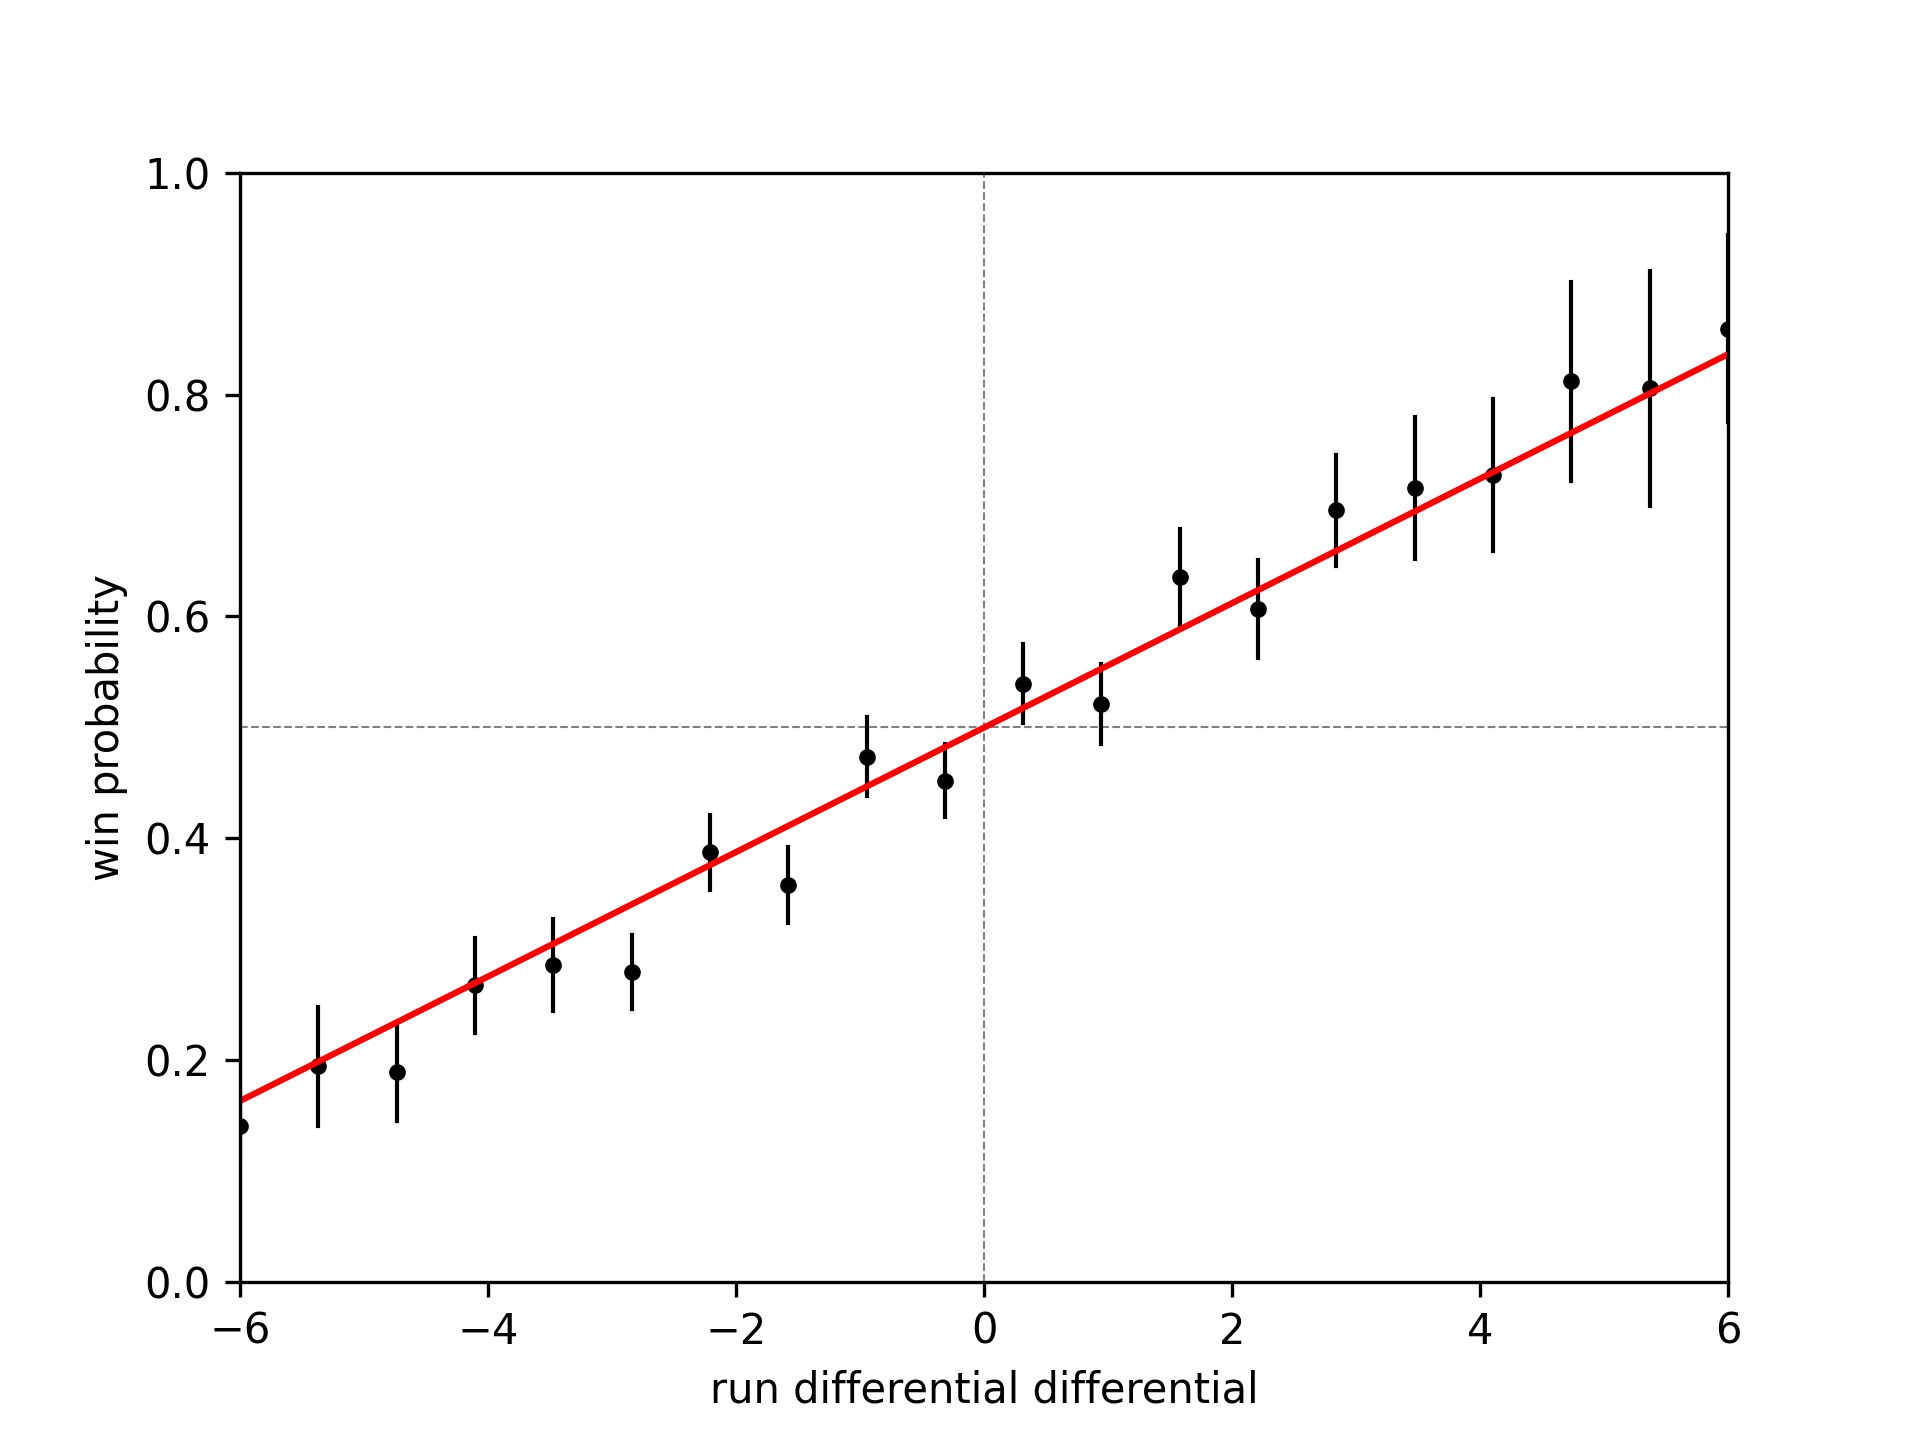
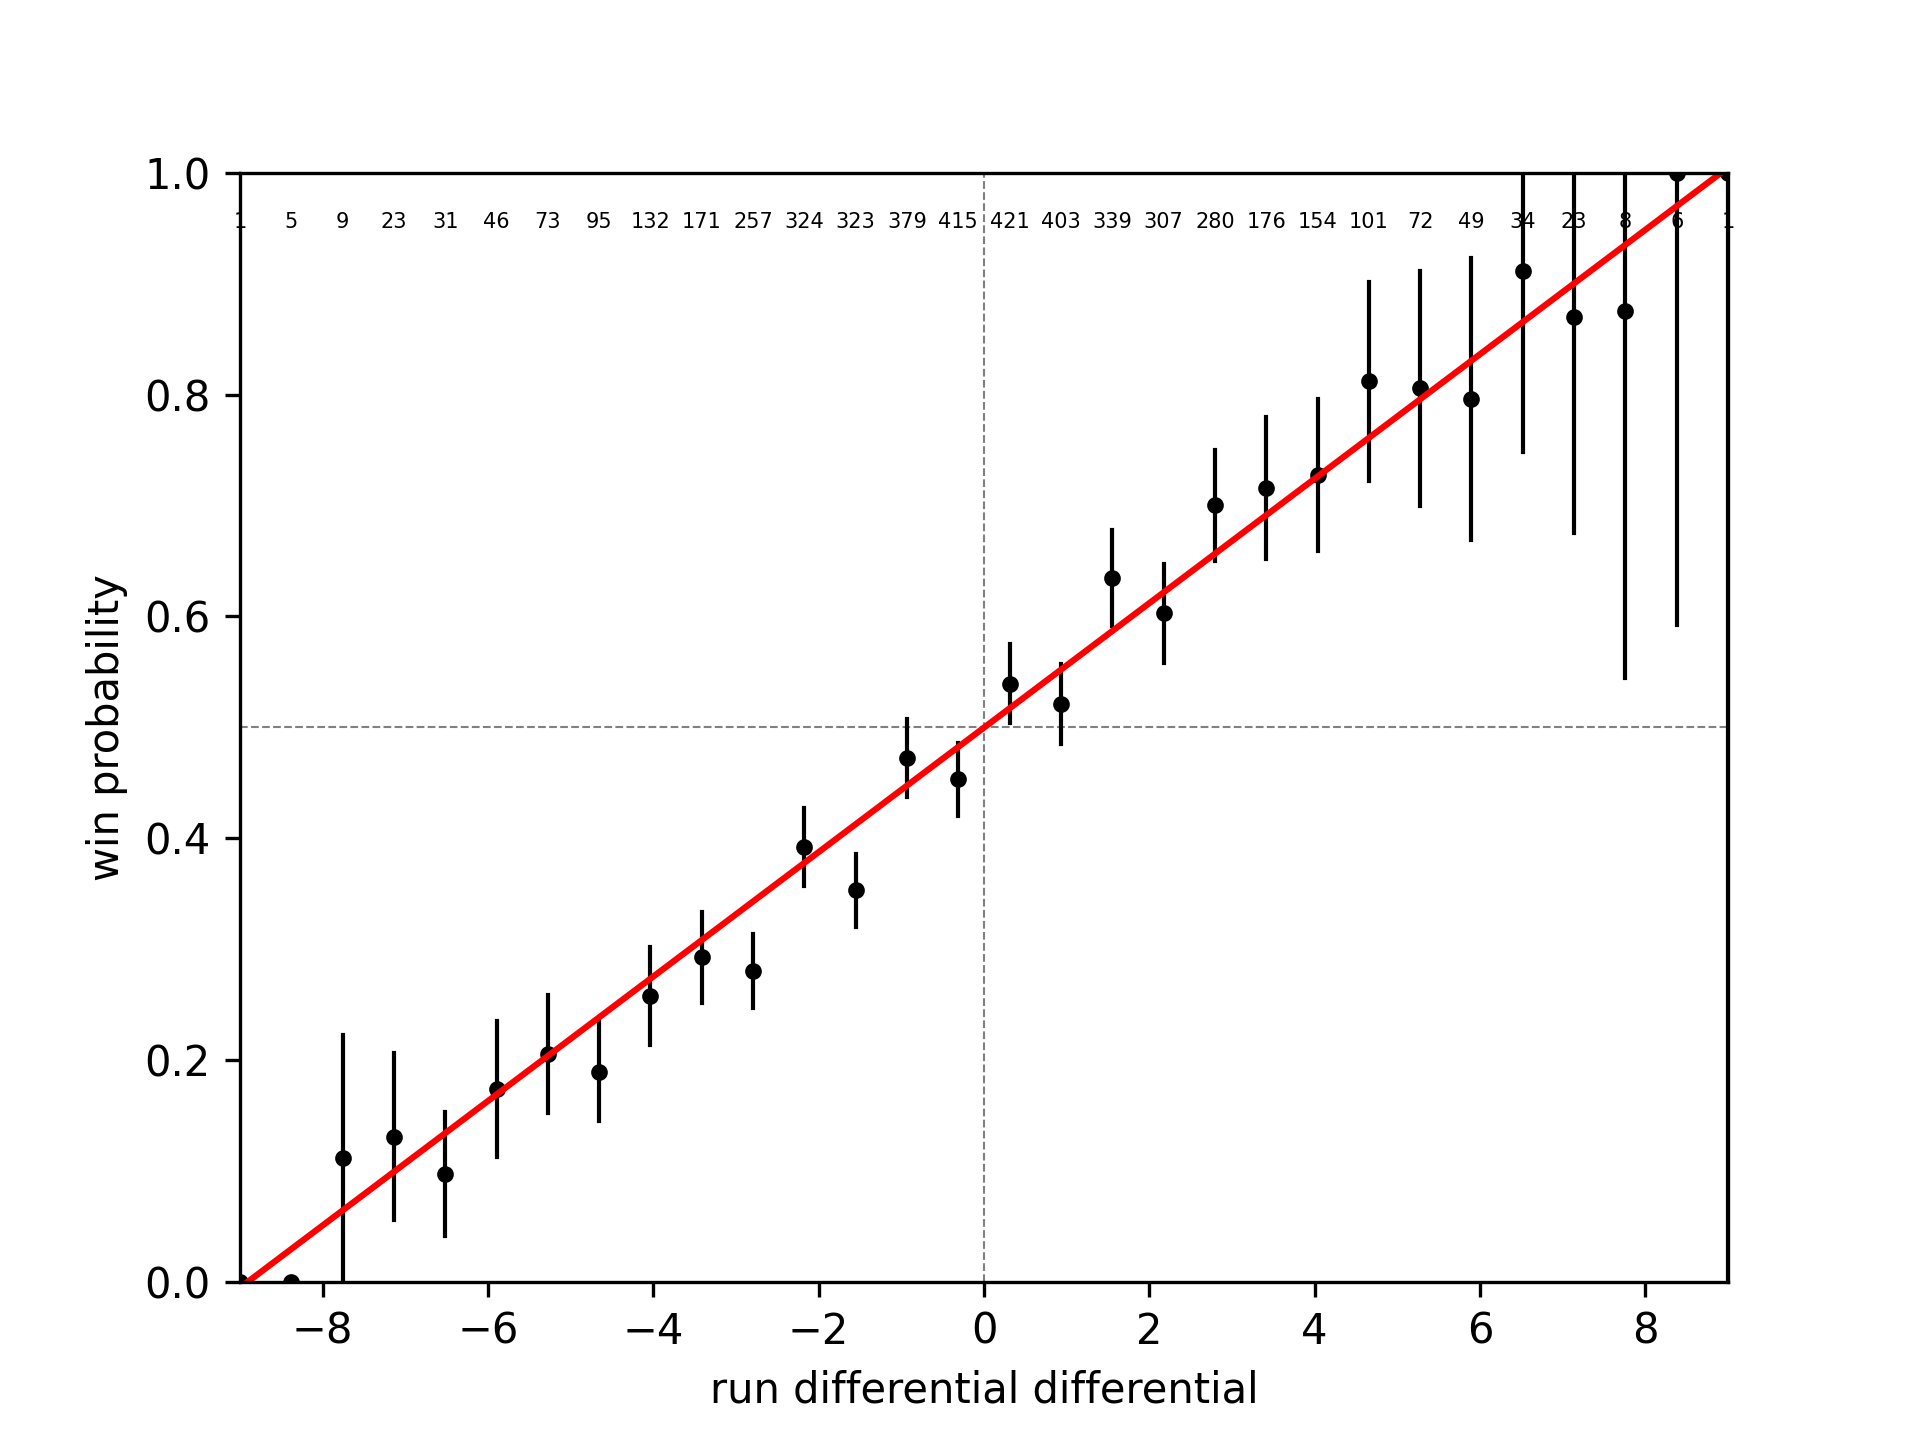
improve validation checks

diff --git a/2validatepredictions.py b/2validatepredictions.py
@@ -30,10 +30,10 @@ kernel_size = 10
 kernel = np.ones(kernel_size) / kernel_size
 
 # bins in meanrundiff go from -3,3
-rdmin,rdmax = -6.,6.
+rdmin,rdmax = -9.,9.
 #rdmin,rdmax = -4.,4.
 
-nrd = 20
+nrd = 30
 drd = (rdmax-rdmin)/nrd
 rundiffrange = np.linspace(rdmin,rdmax,nrd)
 winperc = np.zeros([rundiffrange.size,2])
@@ -55,7 +55,7 @@ for team in teams:
 
         try:
             rundiffdelta = boxcar10rundiff[indx] - oboxcar10rundiff[oindx][0]
-            print(date,team,opp,boxcar10rundiff[indx],oboxcar10rundiff[oindx][0],rundiffdelta*X[1]+X[0],T['rundiff'][indx]>0)
+            #print(date,team,opp,boxcar10rundiff[indx],oboxcar10rundiff[oindx][0],rundiffdelta*X[1]+X[0],T['rundiff'][indx]>0)
             bin1 = int(np.floor((rundiffdelta-rdmin)/drd)) # boxcar bin
             if bin1>=nrd: bin1=nrd-1
             if bin1<0: bin1=0
@@ -68,6 +68,9 @@ for team in teams:
 
 
 plt.scatter(rundiffrange,winperc[:,0]/winperc[:,1],color='black',marker='.')
+
+for i in range(rundiffrange.size):
+    plt.text(rundiffrange[i],0.95,int(winperc[i,1]),color='black',fontsize=5,ha='center')
 
 for b in range(0,rundiffrange.size):
     med = winperc[b,0]/winperc[b,1]
